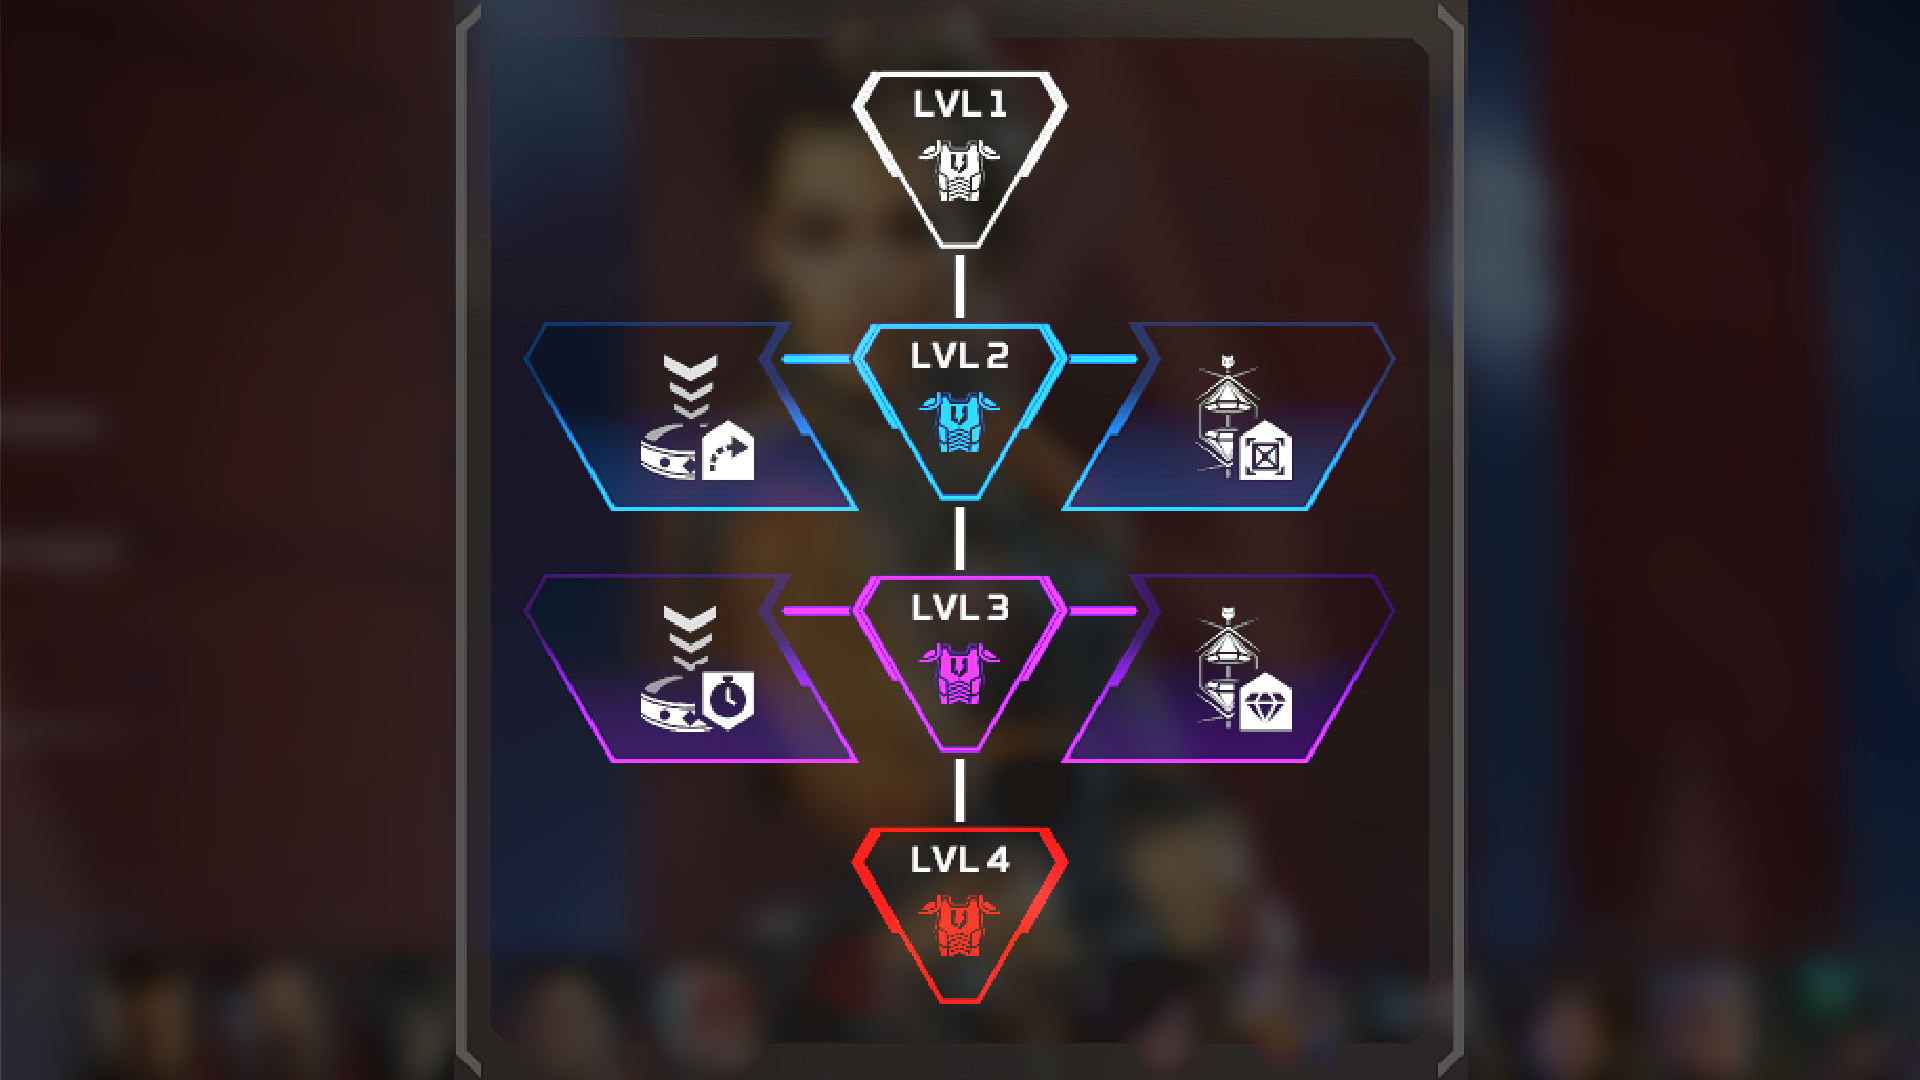
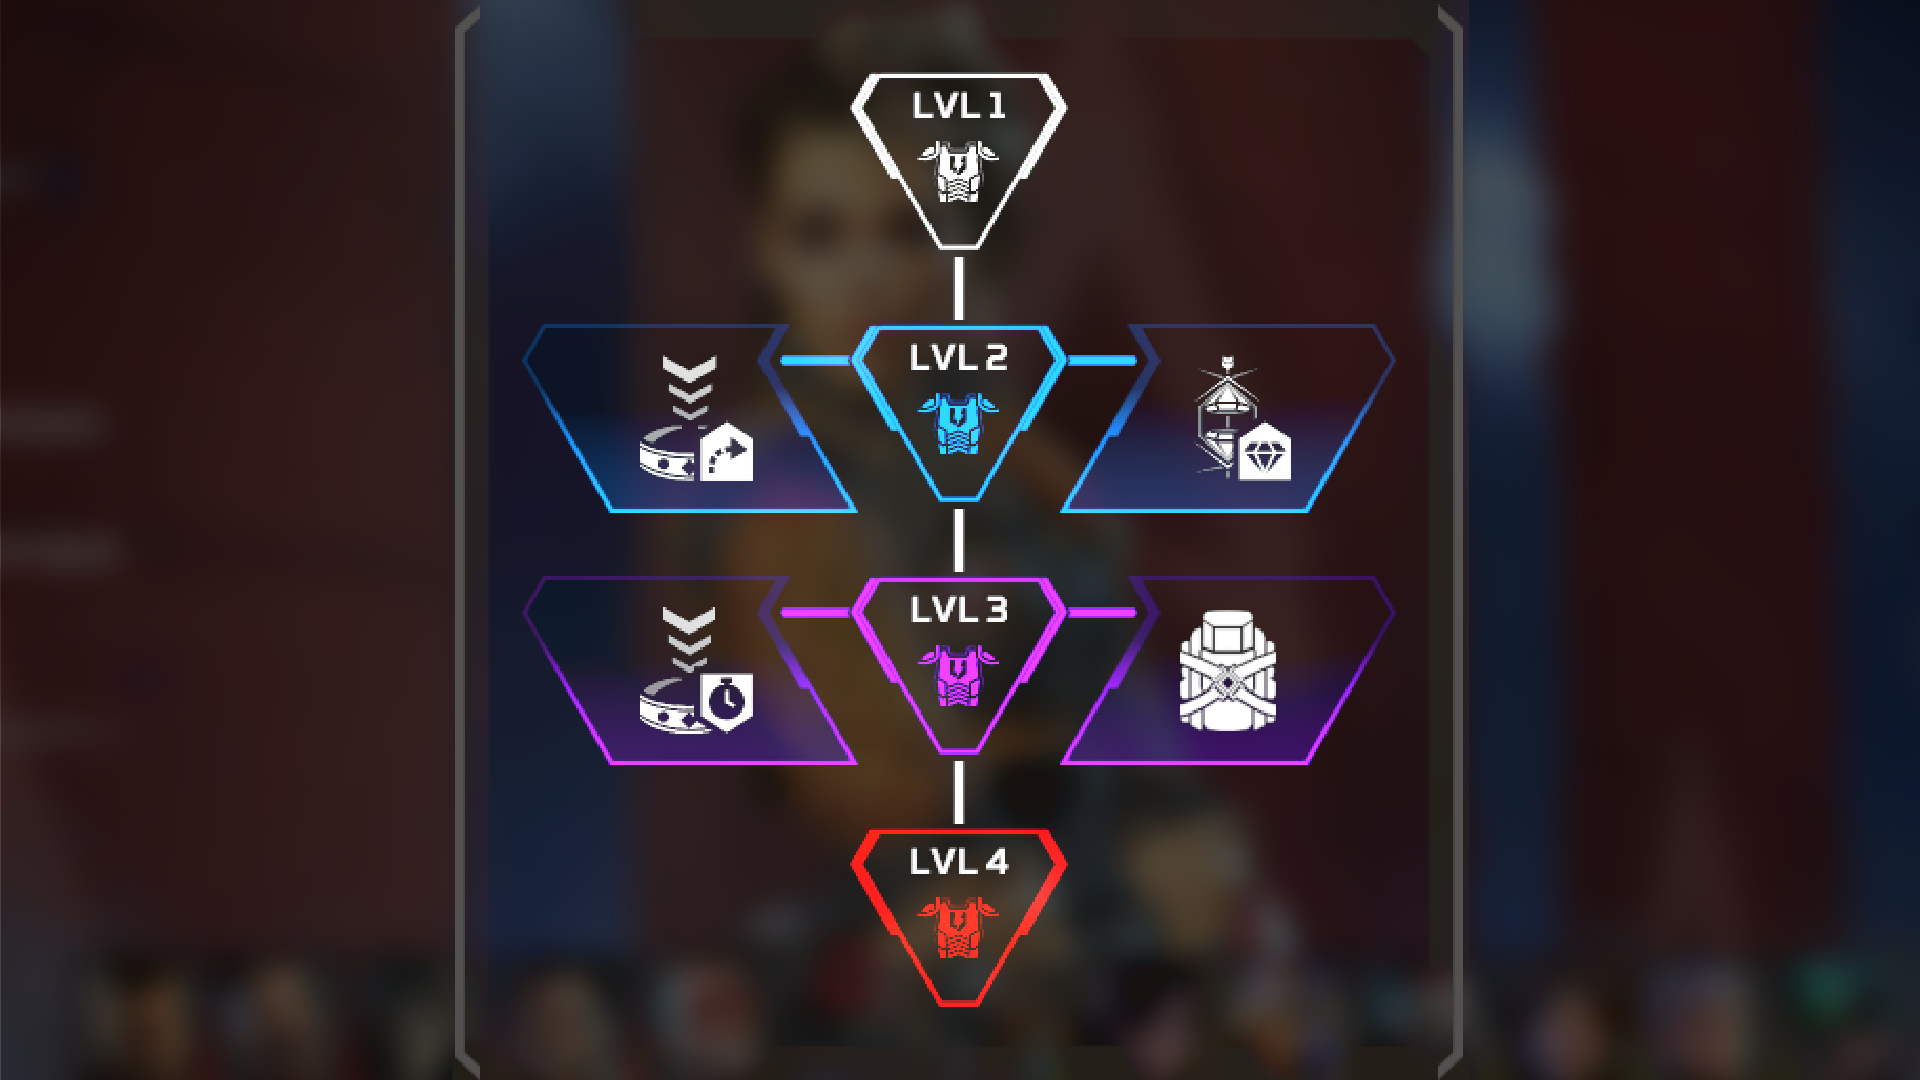
Updated upgrades tabs according to mid season 23 From the Rift patch notes

diff --git a/src/components/events/UpgradeLegends/Support/Loba.jsx b/src/components/events/UpgradeLegends/Support/Loba.jsx
@@ -39,32 +39,32 @@ function Upgrade() {
         <div className={styles.SensitiveZone}>
             <div className={styles.Zone1}>
                 <SensitiveZone
-                    title="HIGH VALUE"
-                    description="Increase Tactical height and range."
+                    title="WOLF'S CLAWS"
+                    description="Gain speed boost and faster weapon draw after teleport."
                     top={-10}
                     left={-460}
                 />
             </div>
             <div className={styles.Zone2}>
                 <SensitiveZone
-                    title="MARKET EXPANSION"
-                    description="Increase Ultimate range by 25%."
+                    title="SHOPPING SPREE"
+                    description="Squad can take 3 items from a friendly black market."
                     top={-10}
                     left={100}
                 />
             </div>
             <div className={styles.Zone3}>
                 <SensitiveZone
-                    title2="TACTICAL COOLDOWN"
-                    description="Reduce Tac cooldown by 5 seconds."
+                    title2="ESCAPE ARTIST"
+                    description="After teleporting, regen 50 shields. Damage interrupts."
                     top={100}
                     left={-460}
                 />
             </div>
             <div className={styles.Zone4}>
                 <SensitiveZone
-                    title2="SHOPPING SPREE"
-                    description="Loba can take an extra item from Black Markets."
+                    title2="BRAND NEW BAG"
+                    description="Squad gains gold backpacks."
                     top={100}
                     left={100}
                 />

diff --git a/src/components/events/UpgradeLegends/Skirmisher/Alter.jsx b/src/components/events/UpgradeLegends/Skirmisher/Alter.jsx
@@ -41,32 +41,32 @@ function Upgrade() {
         <div className={styles.SensitiveZone}>
             <div className={styles.Zone1}>
                 <SensitiveZone
-                    title="Ringmaster"
-                    description="Gain access to Ring Consoles."
+                    title="TACTICAL COOLDOWN+"
+                    description="-10s Tac cooldown."
                     top={-10}
                     left={-460}
                 />
             </div>
             <div className={styles.Zone2}>
                 <SensitiveZone
-                    title="VOID VISION"
-                    description="Enemy recon after exiting Tac."
+                    title="RINGMASTER"
+                    description="Gain access to Ring Consoles."
                     top={-10}
                     left={100}
                 />
             </div>
             <div className={styles.Zone3}>
                 <SensitiveZone
-                    title2="ETERNAL NEXUS"
-                    description="Infinite Ult duration."
+                    title2="VOID VISION"
+                    description="Enemy recon after exiting Tac."
                     top={100}
                     left={-460}
                 />
             </div>
             <div className={styles.Zone4}>
                 <SensitiveZone
-                    title2="TACTICAL COOLDOWN+"
-                    description="-10s Tac cooldown."
+                    title2="MULTIDIMENSIONAL"
+                    description="Grants a second Void Nexus. Both can exist at the same time."
                     top={100}
                     left={100}
                 />

diff --git a/src/components/Navbar/index.jsx b/src/components/Navbar/index.jsx
@@ -12,7 +12,7 @@ const Navbar = forwardRef(({ onSearch }, ref) => {
     }));
 
     const handleInputChange = (evt) => {
-        setSearch(evt.target.value)
+        setSearch(evt.target.value);
     };
 
     const handleInputKeyDown = (evt) => {
@@ -20,28 +20,22 @@ const Navbar = forwardRef(({ onSearch }, ref) => {
             onSearch(search);
         }
     };
-    
-    
+
     return (
         <div ref={ref} style={{
             marginBottom: '14px',
-            width: '1380px',
+            width: '100%',
             display: 'flex',
         }}>
-            <div style={{ flex: 1, display: 'flex', alignItems: 'center', justifyContent: 'flex-start' }}>
-                <p style={{
-                    fontSize: '24px',
-                    fontWeight: 'bold',
-                }}></p>
+            <div style={{ flex: 1, display: 'flex' }}>
             </div>
             <div style={{ flex: 1, display: 'flex', alignItems: 'center', justifyContent: 'flex-end' }}>
                 <input
-                    placeholder="Search"
+                    placeholder="Buscar..."
                     onChange={handleInputChange}
                     onKeyDown={handleInputKeyDown}
                     value={search}
                     style={{
-                        marginLeft: '14px',
                         fontSize: '16px',
                         padding: '6px 12px',
                         borderRadius: '4px',

diff --git a/src/routes/index.jsx b/src/routes/index.jsx
@@ -1,7 +1,14 @@
 import {
     createBrowserRouter,
-    RouterProvider,
+    RouterProvider, BrowserRouter as Router, Route, Routes
 } from "react-router-dom";
+
+import Navbar from './../components/Navbar';
+import Ash from './../components/events/UpgradeLegends/Assault/Ash';
+import Ballistic from './../components/events/UpgradeLegends/Assault/Ballistic';
+import Bangalore from './../components/events/UpgradeLegends/Assault/Bangalore';
+import Fuse from './../components/events/UpgradeLegends/Assault/Fuse';
+import Maggie from './../components/events/UpgradeLegends/Assault/Maggie';
 
 import Home from "../views/Home";
 import Upgrades from "../views/Upgrades";
@@ -23,6 +30,18 @@ const router = createBrowserRouter([
         path: '*',
         element: <Error404 />
     },
+
+    <Router>
+        <Navbar />
+        <Routes>
+            <Route path="/legends-upgrade" element={<Ash />} />
+            <Route path="/legends-upgrade" element={<Ballistic />} />
+            <Route path="/legends-upgrade" element={<Bangalore />} />
+            <Route path="/legends-upgrade" element={<Fuse />} />
+            <Route path="/legends-upgrade" element={<Maggie />} />
+            {/* TODO */}
+        </Routes>
+    </Router>
 
 ]);
 

diff --git a/src/components/events/UpgradeLegends/Support/Lifeline.jsx b/src/components/events/UpgradeLegends/Support/Lifeline.jsx
@@ -39,16 +39,16 @@ function Upgrade() {
         <div className={styles.SensitiveZone}>
             <div className={styles.Zone1}>
                 <SensitiveZone
-                    title="BATTPACK"
-                    description="+1 Battery per stack. See Battery Count in Death Boxes."
+                    title="EXTENDED FLIGHT"
+                    description="Increase time before D.O.C. runs out of fuel by 1.5s."
                     top={-10}
                     left={-460}
                 />
             </div>
             <div className={styles.Zone2}>
                 <SensitiveZone
-                    title="EXTENDED FLIGHT"
-                    description="Increase time before D.O.C. runs out of fuel by 1.5s."
+                    title="BATTPACK"
+                    description="+1 Battery per stack. See Battery Count in Death Boxes."
                     top={-10}
                     left={100}
                 />

diff --git a/src/components/events/UpgradeLegends/Support/Mirage.jsx b/src/components/events/UpgradeLegends/Support/Mirage.jsx
@@ -39,16 +39,16 @@ function Upgrade() {
         <div className={styles.SensitiveZone}>
             <div className={styles.Zone1}>
                 <SensitiveZone
-                    title="BATTPACK"
-                    description="+1 Battery per stack. See Battery Count in Death Boxes."
+                    title="RENAISSANCE MAN"
+                    description="Gain access to all class consoles, bins, beacons and package scans."
                     top={-10}
                     left={-460}
                 />
             </div>
             <div className={styles.Zone2}>
                 <SensitiveZone
-                    title="MORE ME"
-                    description="+1 Ult Decoy and -30 seconds."
+                    title="BOOZLE-EYE"
+                    description="Bamboozles now also scan enemies."
                     top={-10}
                     left={100}
                 />

diff --git a/src/components/events/UpgradeLegends/Slider/Assault.slide.jsx b/src/components/events/UpgradeLegends/Slider/Assault.slide.jsx
@@ -1,6 +1,6 @@
 // Import Swiper React components
 import { Swiper, SwiperSlide } from 'swiper/react';
-import { EffectFlip, Pagination, Navigation, Keyboard  } from 'swiper/modules';
+import { EffectFlip, Pagination, Navigation, Keyboard } from 'swiper/modules';
 
 // Import Swiper styles
 import 'swiper/css';
@@ -16,6 +16,8 @@ import Ballistic from '../Assault/Ballistic';
 import Bangalore from '../Assault/Bangalore';
 import Fuse from '../Assault/Fuse';
 import Maggie from '../Assault/Maggie';
+
+export const assaultSearch = ['Ash', 'Ballistic', 'Bangalore', 'Fuse', 'Maggie'];
 
 export default () => {
   return (

diff --git a/src/components/events/UpgradeLegends/Skirmisher/Pathfinder.jsx b/src/components/events/UpgradeLegends/Skirmisher/Pathfinder.jsx
@@ -64,7 +64,7 @@ function Upgrade() {
             <div className={styles.Zone4}>
                 <SensitiveZone
                     title2="ZIPLINE ZEN"
-                    description="Take 50% less damage while riding energized Ziplines."
+                    description="Take 25% less damage while riding energized Ziplines."
                     top={100}
                     left={100}
                 />
